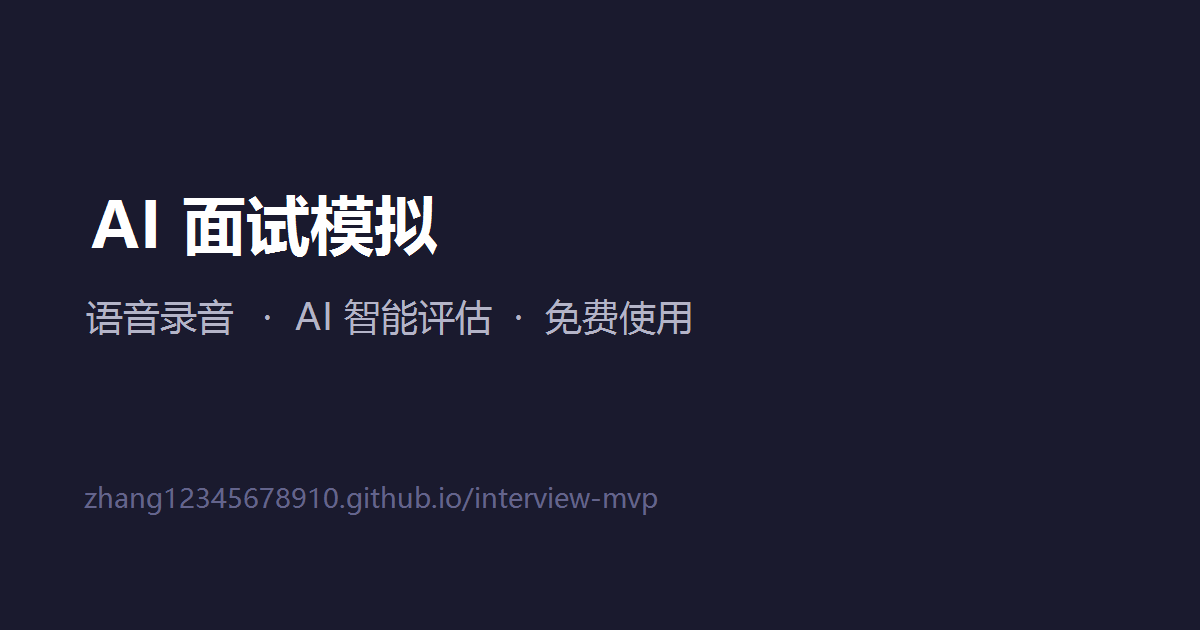
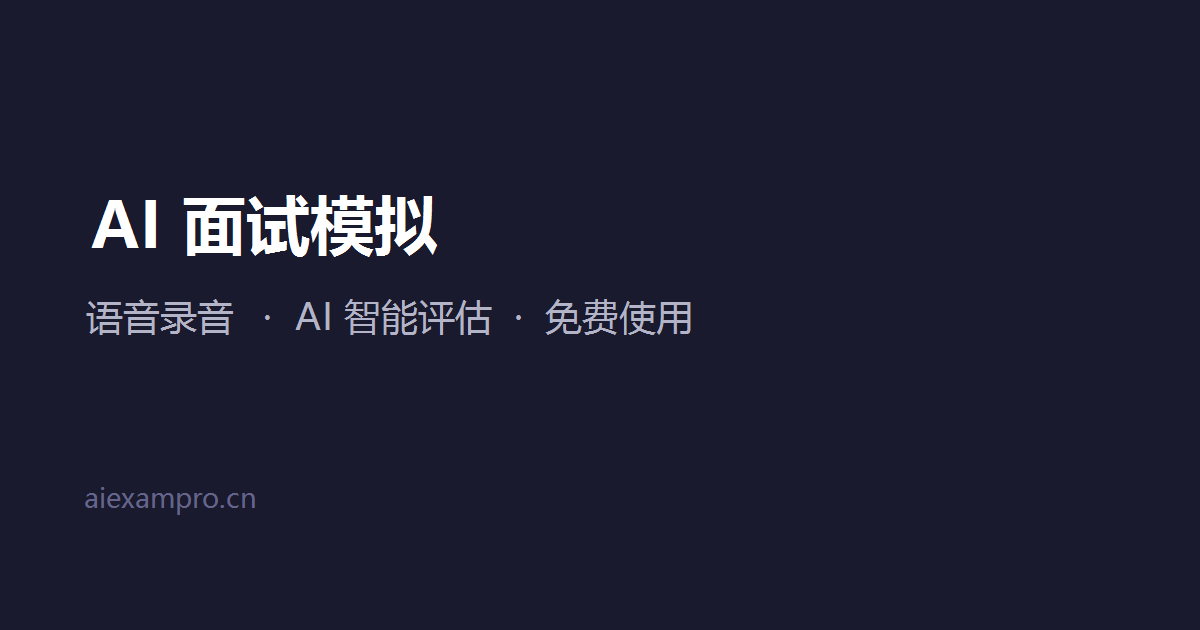
Add custom domain aiexampro.cn and update all URL references
- Add CNAME file for GitHub Pages custom domain
- Update OG/twitter meta tags from github.io to aiexampro.cn
- Regenerate share-card.png with new domain

Changed region(s): [[0.0617, 0.754, 0.555, 0.8143]]

diff --git a/index.html b/index.html
@@ -7,17 +7,17 @@
 <meta name="description" content="AI驱动的面试模拟工具，支持语音录音回答，实时智能评估打分。模拟大厂面试场景，提升面试通过率。免费使用，无需注册。">
 <meta property="og:title" content="AI面试模拟 | 免费在线Mock Interview">
 <meta property="og:description" content="AI驱动的面试模拟工具，支持语音录音回答，实时智能评估打分。模拟大厂面试场景，提升面试通过率。">
-<meta property="og:url" content="https://zhang12345678910.github.io/interview-mvp/">
+<meta property="og:url" content="https://aiexampro.cn/">
 <meta property="og:type" content="website">
 <meta property="og:site_name" content="AI面试模拟">
 <meta property="og:locale" content="zh_CN">
-<meta property="og:image" content="https://zhang12345678910.github.io/interview-mvp/share-card.png">
+<meta property="og:image" content="https://aiexampro.cn/share-card.png">
 <meta property="og:image:width" content="1200">
 <meta property="og:image:height" content="630">
 <meta name="twitter:card" content="summary_large_image">
 <meta name="twitter:title" content="AI面试模拟 | 免费在线Mock Interview">
 <meta name="twitter:description" content="AI驱动的面试模拟工具，支持语音录音回答，实时智能评估打分。">
-<meta name="twitter:image" content="https://zhang12345678910.github.io/interview-mvp/share-card.png">
+<meta name="twitter:image" content="https://aiexampro.cn/share-card.png">
 <style>
 /* ===== Reset & Base ===== */
 *, *::before, *::after { box-sizing: border-box; margin: 0; padding: 0; }
